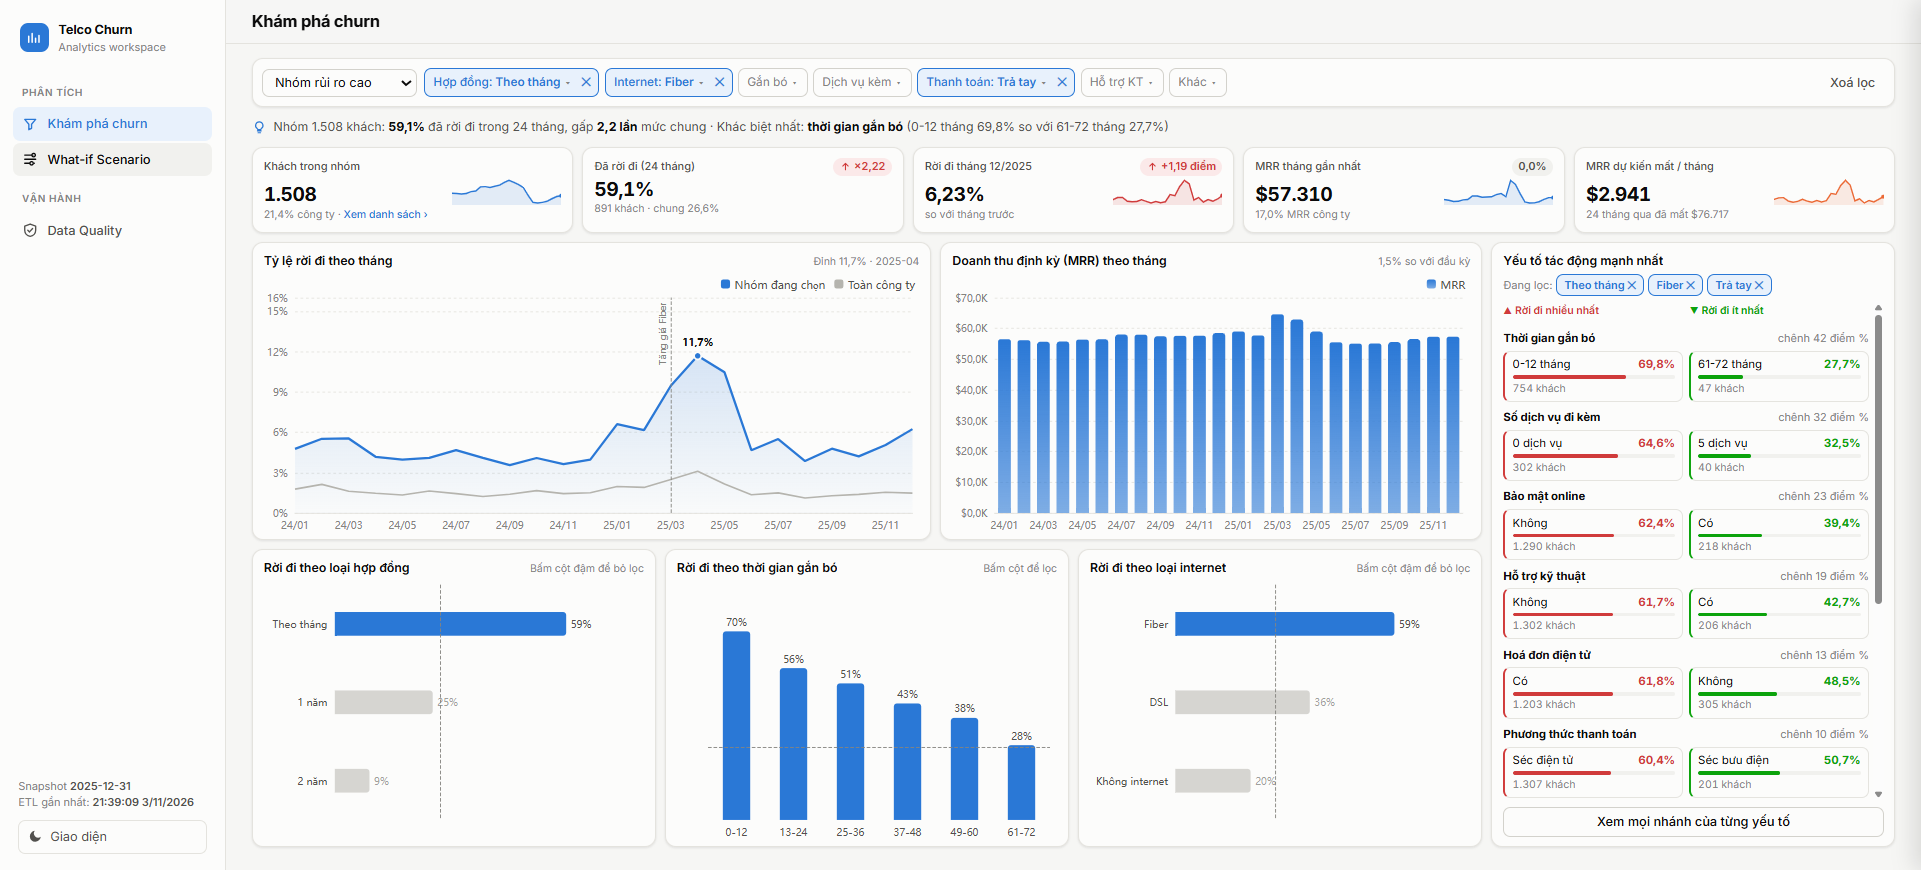
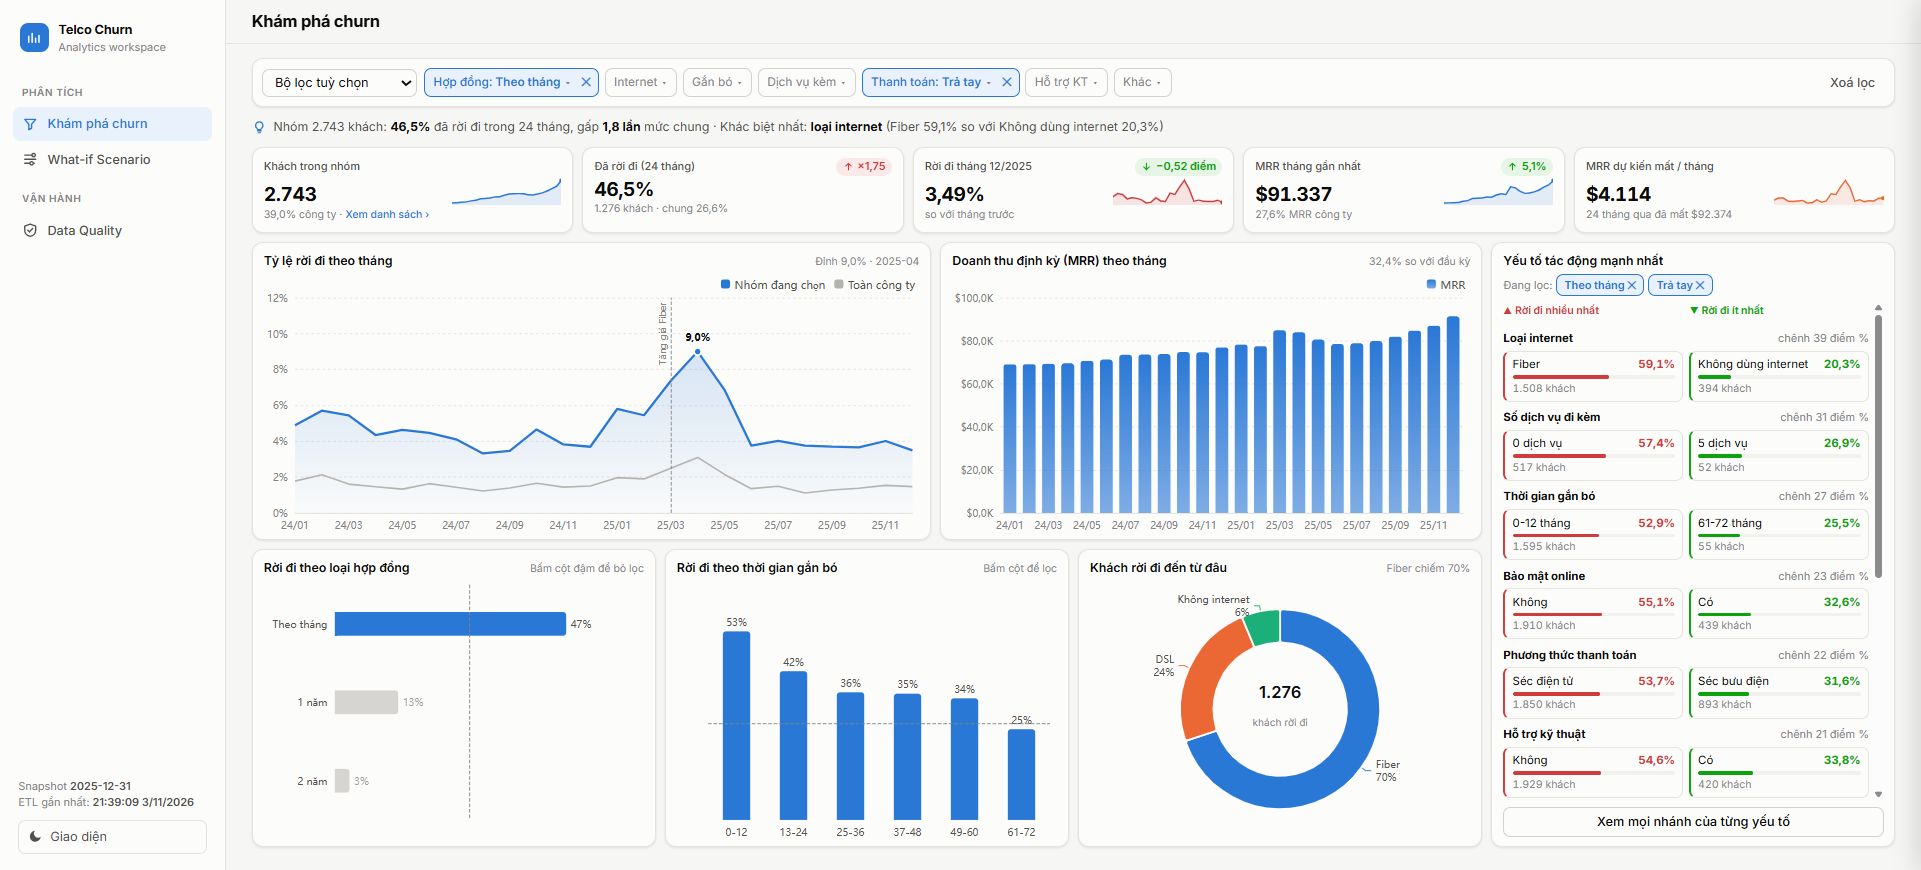
Add churn-mix donut: where churned customers come from
- Replace the internet churn-rate bars (already covered by the factor panel) with a donut showing each internet type's share of churned customers, total in the center, fixed colors per entity
- Slices cross-filter like the bars: click to filter, click again to remove; unselected slices dimmed
- Document the rate-vs-composition distinction; refresh README screenshot

diff --git a/src/dashboard/static/app.js b/src/dashboard/static/app.js
@@ -198,7 +198,7 @@
         </div>
         ${viz('ex-contract', 'Rời đi theo loại hợp đồng', 'v-b1')}
         ${viz('ex-tenure', 'Rời đi theo thời gian gắn bó', 'v-b2')}
-        ${viz('ex-internet', 'Rời đi theo loại internet', 'v-b3')}
+        ${viz('ex-internet', 'Khách rời đi đến từ đâu', 'v-b3')}
       </div>`;
     ['ex-churn', 'ex-mrr', 'ex-contract', 'ex-tenure', 'ex-internet'].forEach((id) => mountChart(id, {}));
     // Lọc chéo kiểu Power BI: bấm một cột để lọc theo giá trị đó, bấm lại để bỏ.
@@ -415,7 +415,7 @@
     drawMrrChart(d, filtered);
     drawFactorBars(d, 'ex-contract', 'contract', allRate, 'h');
     drawFactorBars(d, 'ex-tenure', 'tenure', allRate, 'v');
-    drawFactorBars(d, 'ex-internet', 'internet', allRate, 'h');
+    drawChurnMixDonut(d, 'ex-internet', 'internet');
     resizeChartsSoon();
   }
 
@@ -480,6 +480,40 @@
           + tipRow(null, 'MRR mất do khách rời đi', fmt.usd(t.sel_mrr_lost));
       } },
       series,
+    }, true);
+  }
+
+  /* Donut cơ cấu: khách rời đi đến từ đâu (bổ sung cho các biểu đồ tỷ lệ). Màu gắn cố định với từng loại internet. */
+  function drawChurnMixDonut(d, id, key) {
+    const chart = state.charts[id];
+    if (!chart) return;
+    const color = { 'Fiber optic': css('--series-1'), 'DSL': css('--series-2'), 'No': css('--series-3') };
+    const rows = d.breakdown.filter((b) => b.factor_key === key).sort((a, b) => a.value_sort - b.value_sort);
+    const total = sum(rows, (r) => r.churners);
+    const chosen = ex.filters[key] || [];
+    const top = rows.reduce((a, r) => (!a || r.churners > a.churners ? r : a), null);
+    $(`#${id}-hint`).textContent = top && total ? `${valueLabel(key, top.value)} chiếm ${fmt.pct(top.churners / total, 0)}` : '';
+    chart.setOption({
+      tooltip: { ...baseOption().tooltip, trigger: 'item', formatter: (p) => {
+        const r = p.data.row;
+        return `<b>${esc(p.name)}</b>${tipRow(p.color, 'Khách rời đi', `${fmt.int(r.churners)} (${fmt.pct(p.percent / 100)})`)}
+          ${tipRow(null, 'Tỷ lệ rời đi', fmt.pct(r.churners / r.customers))}${tipRow(null, 'Khách', fmt.int(r.customers))}
+          <div style="color:${css('--text-3')};margin-top:4px">${chosen.includes(p.data.raw) ? 'Bấm để bỏ lọc' : 'Bấm để lọc'}</div>`;
+      } },
+      legend: { show: false },
+      graphic: [{ type: 'text', left: 'center', top: '40%', silent: true,
+        style: { text: fmt.int(total), fill: css('--text'), font: '600 18px Inter, system-ui, sans-serif', textAlign: 'center' } },
+        { type: 'text', left: 'center', top: '53%', silent: true,
+        style: { text: 'khách rời đi', fill: css('--text-3'), font: '11px Inter, system-ui, sans-serif', textAlign: 'center' } }],
+      series: [{ type: 'pie', radius: ['52%', '78%'], center: ['50%', '50%'], cursor: 'pointer', avoidLabelOverlap: true,
+        itemStyle: { borderColor: css('--surface'), borderWidth: 2, borderRadius: 3 },
+        label: { formatter: (p) => `${p.name}\n${fmt.pct(p.percent / 100, 0)}`, fontSize: 11, color: css('--text-2'), lineHeight: 14 },
+        labelLine: { length: 6, length2: 6 },
+        data: rows.filter((r) => r.churners > 0).map((r) => {
+          const on = chosen.includes(r.value);
+          return { name: valueLabel(key, r.value).replace('Không dùng internet', 'Không internet'), value: r.churners, raw: r.value, row: r,
+            itemStyle: { color: color[r.value], opacity: chosen.length && !on ? 0.3 : 1 } };
+        }) }],
     }, true);
   }
 

diff --git a/README.md b/README.md
@@ -134,7 +134,7 @@ Cần thử nghiệm A/B có nhóm đối chứng trước khi triển khai rộ
 Web app Flask + ECharts thay cho Power BI. Hai trang chính vừa **một màn hình** (khung tham chiếu: 1 trang A4 ngang):
 nhiều hình nhỏ, ít chữ; chi tiết chỉ mở khi cần.
 
-- **Khám phá churn** (kiểu trang báo cáo Power BI): 5 KPI có sparkline, xu hướng tỷ lệ rời đi và MRR, 3 biểu đồ cột lọc chéo (bấm cột để lọc, bấm lại để bỏ), panel xếp hạng 13 yếu tố. Bật/tắt yếu tố hoặc chọn góc nhìn có sẵn, mọi hình tính lại ngay theo nhóm đang chọn và luôn so với toàn công ty. Có danh sách khách xuất CSV.
+- **Khám phá churn** (kiểu trang báo cáo Power BI): 5 KPI có sparkline, xu hướng tỷ lệ rời đi và MRR, 2 biểu đồ cột và 1 donut cơ cấu "khách rời đi đến từ đâu", đều lọc chéo (bấm để lọc, bấm lại để bỏ), panel xếp hạng 13 yếu tố. Bật/tắt yếu tố hoặc chọn góc nhìn có sẵn, mọi hình tính lại ngay theo nhóm đang chọn và luôn so với toàn công ty. Có danh sách khách xuất CSV.
 - **What-if Scenario:** thanh trượt tỷ lệ chuyển hợp đồng, chiết khấu, tầm nhìn.
 - **Data Quality:** trang tra cứu cho đội dữ liệu, gồm 26 kiểm tra, bản ghi bị loại và các bước ETL.
 
